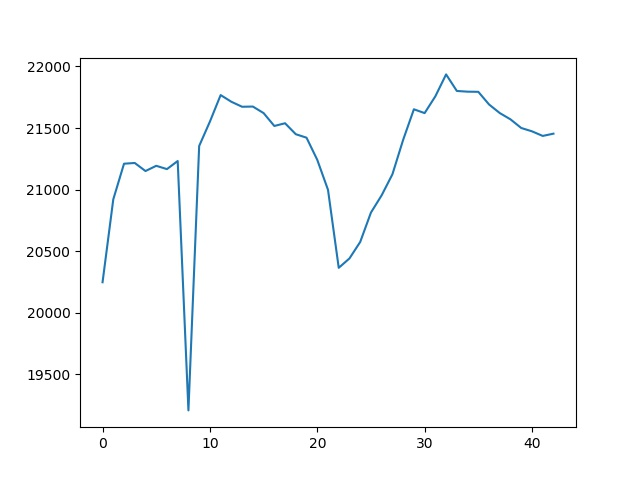
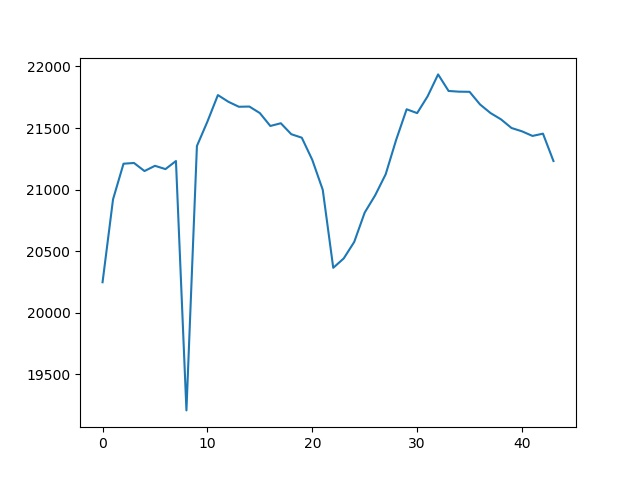
'auto'

diff --git a/README.md b/README.md
@@ -1,5 +1,5 @@
 Frizider live: 5
-21454.091666666664 
+21231.683333333334 
 0
 Temperatura:
 
